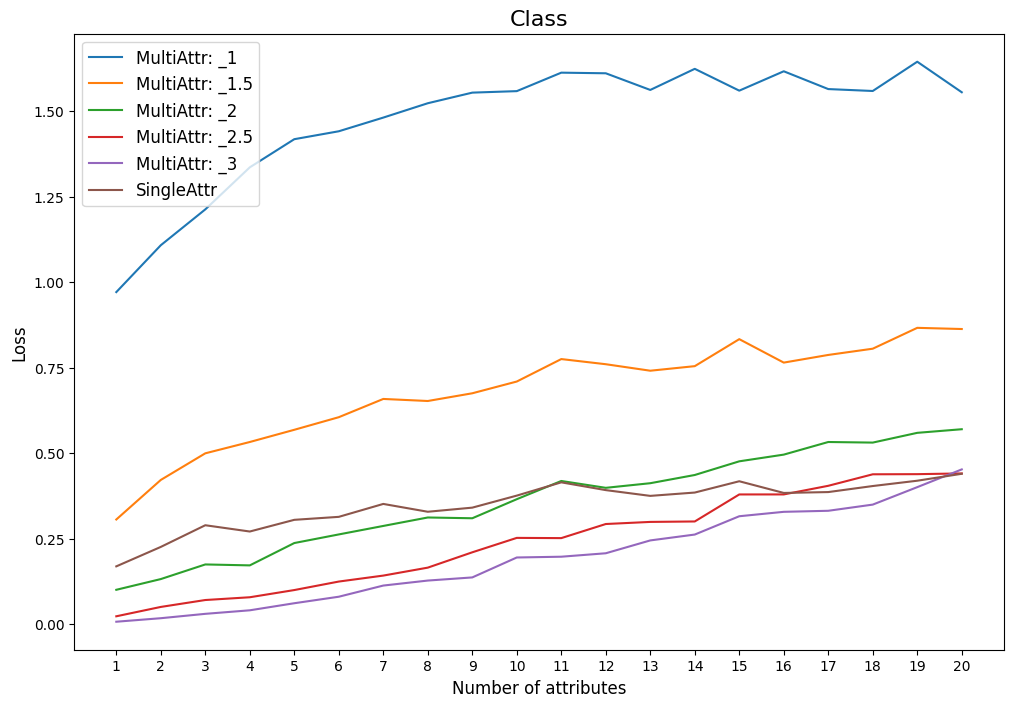
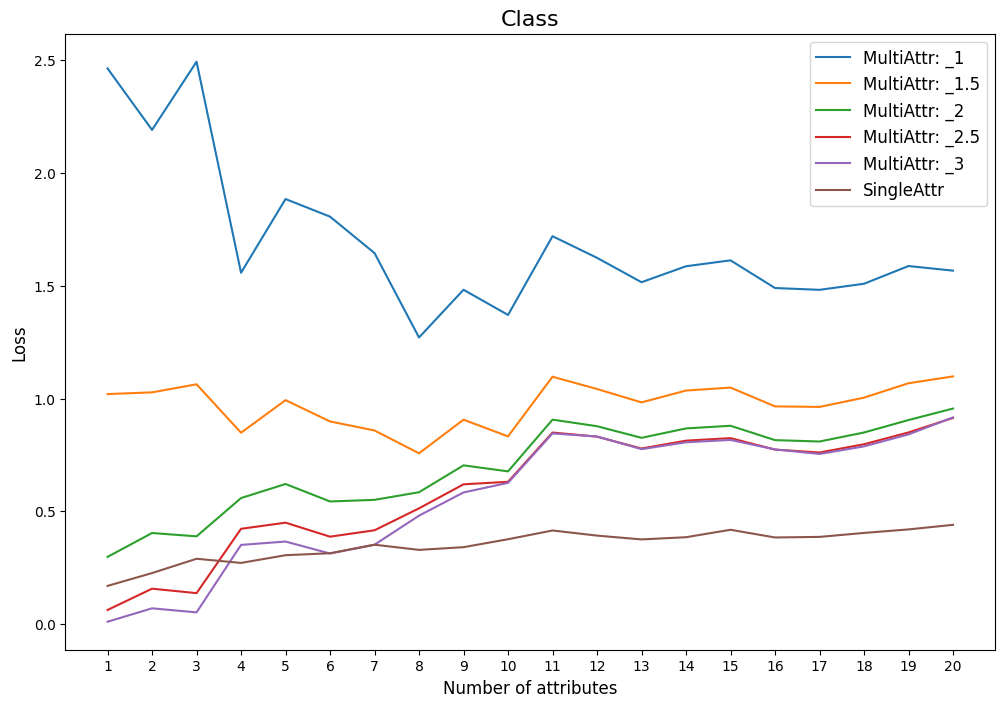
New evaluation + fixing errors (random, mask, etc)

diff --git a/evaluation.py b/evaluation.py
@@ -41,20 +41,16 @@ parser.add_argument('--log_path', type=str, default='./logs/', help='log file pa
 opts = parser.parse_args()
 
 config = yaml.safe_load(open('./configs/' + opts.config + '.yaml', 'r'))
-exp = opts.config
-os.makedirs(f"./out_images/{exp}", exist_ok=True)
+
+save_dir = f'./outputs/evaluation/{opts.config}'
+os.makedirs(save_dir, exist_ok=True)
+
+log_dir_single = os.path.join(opts.log_path, "original_train") + '/'
+log_dir = os.path.join(opts.log_path, opts.config) + '/'
 
 # Load input latent codes
 testdata_dir = './data/ffhq/'
 n_steps = 5
-scale = 2.0
-
-save_dir = './outputs/evaluation/new_train'
-log_dir_single = os.path.join(opts.log_path, "original_train") + '/'
-
-os.makedirs(save_dir, exist_ok=True)
-
-log_dir = os.path.join(opts.log_path, opts.config) + '/'
 
 n_attrs = 20
 attrs = config['attr'].split(',')
@@ -103,7 +99,7 @@ def compute_sequential_loss(w, w_1, attr_nums, coeff, trainer):
     return loss, w_pb * loss_pb, w_reg * loss_reg, w_recon * loss_recon
 
 
-def eval_multi(save_img=True, scaling=1):
+def eval_multi(save_img=True, scaling=1.0):
     with torch.no_grad():
         
         # Initialize trainer
@@ -138,7 +134,7 @@ def eval_multi(save_img=True, scaling=1):
         return losses.mean(dim=0).detach().cpu().numpy()
 
 
-def eval_multi_n(n=1, scaling=1):
+def eval_multi_n(n=1, scaling=1, rand_attr=True, save_img=False):
     with torch.no_grad():
         
         # Initialize trainer
@@ -152,7 +148,10 @@ def eval_multi_n(n=1, scaling=1):
         losses = torch.zeros((n_samples, 4)).to(DEVICE)
 
         for k in track(range(n_samples), f"Evaluating Multi model for {n} attributes, scaling = {scaling}..."):
-            local_attrs = random.sample(range(coeffs.shape[1]), random.randint(1,n))
+            if rand_attr:
+                local_attrs = random.sample(range(coeffs.shape[1]), n) # random.randint(1,n))
+            else:
+                local_attrs = list(range(n))
 
             w_0 = np.load(testdata_dir + 'latent_code_%05d.npy' % k)
             w_0 = torch.tensor(w_0).to(DEVICE)
@@ -168,7 +167,7 @@ def eval_multi_n(n=1, scaling=1):
 
             losses[k] = torch.tensor([loss.item(), loss_pb.item(), loss_reg, loss_recon]).to(DEVICE)
 
-            if k == 500:
+            if k == 100 and save_img:
                 w_1 = torch.cat((w_1[:,:11,:], w_0[:,11:,:]), 1)
                 x_1, _ = trainer.StyleGAN([w_1], input_is_latent=True, randomize_noise=False)
                 utils.save_image(clip_img(x_1), save_dir + f"multi_{n}_attrs_" + str(k) + '.jpg')
@@ -224,7 +223,7 @@ def eval_single(save_img=True):
         return losses.mean(dim=0).detach().cpu().numpy()
 
 
-def eval_single_n(n=1):
+def eval_single_n(n=1, rand_attr=True, save_img=False):
     with torch.no_grad():
         
         # Initialize trainer
@@ -237,7 +236,10 @@ def eval_single_n(n=1):
         losses = torch.zeros((n_samples, 4)).to(DEVICE)
 
         for k in track(range(n_samples), f"Evaluating Single for {n} attributes..."):
-            local_attrs = random.sample(range(coeffs.shape[1]), random.randint(1,n))
+            if rand_attr:
+                local_attrs = random.sample(range(coeffs.shape[1]), random.randint(1,n))
+            else:
+                local_attrs = list(range(n))
 
             coeff = np.zeros_like(coeffs[k])
             coeff[local_attrs] = coeffs[k][local_attrs]
@@ -268,7 +270,7 @@ def eval_single_n(n=1):
 
             losses[k] = torch.tensor([loss.item(), loss_pb.item(), loss_reg, loss_recon]).to(DEVICE)
 
-            if k == 500:
+            if k == 100 and save_img:
                 w_1 = torch.cat((w_1[:,:11,:], w_0[:,11:,:]), 1)
                 x_1, _ = trainer.StyleGAN([w_1], input_is_latent=True, randomize_noise=False)
                 utils.save_image(clip_img(x_1), save_dir + f"single_{n}_attrs_" + str(k) + '.jpg')
@@ -276,17 +278,17 @@ def eval_single_n(n=1):
         return losses.mean(dim=0).detach().cpu().numpy()
 
 
-def all_n_experiment(suffix="", multi=True, single=True, scaling=1):
+def all_n_experiment(suffix="", multi=True, single=True, scaling=1, rand_attr=True, save_img=False):
     if multi:
         losses_m = np.zeros((len(attrs), 4))
         for i in range(1,21):
-            losses_m[i-1] = eval_multi_n(i, scaling=scaling)
+            losses_m[i-1] = eval_multi_n(i, scaling=scaling, rand_attr=rand_attr, save_img=save_img)
         np.save(f"outputs/evaluation/n_multi{suffix}.npy",losses_m)
 
     if single:
         losses_s = np.zeros((len(attrs), 4))
         for i in range(1,21):
-            losses_s[i-1] = eval_single_n(i)
+            losses_s[i-1] = eval_single_n(i, rand_attr=rand_attr, save_img=save_img)
         np.save(f"outputs/evaluation/n_single.npy",losses_s)
 
 
@@ -312,17 +314,13 @@ def plot_n_comparison(suffix="", suffixes=None):
         plt.legend(fontsize=12)
         plt.xlabel("Number of attributes", fontsize=12)
         plt.ylabel("Loss", fontsize=12)
-        plt.savefig(f"out_images/{exp}/n_eval_{title}.png", bbox_inches="tight")
+        plt.savefig(f"{save_dir}/n_eval_{title}.png", bbox_inches="tight")
         plt.clf()
 
 
 def plot_overall(suffix=""):
     single = eval_single(save_img=False)
-    multi = eval_multi(save_img=False)
-
-    # Mock values
-    # multi = [1,2,3,4]
-    # single = [1,2,3,4]
+    multi = eval_multi(save_img=False, scaling=1.5)
 
     fig, ax = plt.subplots(figsize=(10,6))
     bar_width = 0.35
@@ -348,22 +346,23 @@ def plot_overall(suffix=""):
     ax.set_yscale('log')
     ax.legend()
 
-    plt.savefig(f"out_images/{exp}/eval_overall{suffix}.png", bbox_inches="tight")
-    # plt.show()
+    plt.savefig(f"{save_dir}/eval_overall{suffix}.png", bbox_inches="tight")
 
 
 if __name__ == "__main__":
-    plot_overall(suffix="_vs_original")
+    # plot_overall(suffix="_vs_original")
 
-    scaling_exp = True
+    rand = True
+    save_img = True
+    scaling_exp = False
     if scaling_exp:
-        scaling_factors = [1, 1.5, 2, 2.5, 3]
+        scaling_factors = [1, 1.5, 2, 3]
         for scaling in scaling_factors:
-            all_n_experiment(multi=True, single=False, suffix=f"_{scaling}", scaling=scaling)
+            all_n_experiment(multi=True, single=False, suffix=f"_{scaling}", scaling=scaling, rand_attr=rand, save_img=save_img)
 
         suffixes = [f"_{s}" for s in scaling_factors]
     else:
-        all_n_experiment(multi=True, single=True, suffix=f"_vs_original")
+        all_n_experiment(multi=True, single=True, suffix=f"_vs_original", rand_attr=rand, save_img=save_img)
         suffixes = None
     
     plot_n_comparison(suffix="_vs_original", suffixes=suffixes)

diff --git a/trainer.py b/trainer.py
@@ -3,18 +3,14 @@
 # This source code is made available under the license found in the
 # LICENSE.txt in the root directory of this source tree.
 
-import os
 import numpy as np
 import torch
 import torch.nn as nn
 import torch.nn.functional as F
-import torch.utils.data as data
 import random
 random.seed(1)
 
-from PIL import Image
-from torch.autograd import grad
-from torchvision import transforms, utils
+from torchvision import utils
 
 from nets import *
 from utils.functions import *
@@ -278,7 +274,7 @@ class Trainer(nn.Module):
         mask_pb = T_coeff.float() * target_pb + F_coeff.float() * (1-target_pb)
 
         pred_pb = predict_lbl_1[torch.arange(predict_lbl_1.shape[0]), self.attr_nums]
-        self.loss_pb = self.BCEloss(pred_pb[coeff_idx], target_pb, reduction='none')*mask_pb
+        self.loss_pb = self.BCEloss(pred_pb[coeff_idx], target_pb, reduction='none') # *mask_pb
         self.loss_pb = self.loss_pb.mean()
 
         # Latent code recon

diff --git a/overall_test.py b/overall_test.py
@@ -42,12 +42,13 @@ opts = parser.parse_args()
 
 log_dir = os.path.join(opts.log_path, opts.config) + '/'
 config = yaml.safe_load(open('./configs/' + opts.config + '.yaml', 'r'))
-save_dir = opts.out_path + 'test/scaling/'
+save_dir = opts.out_path + 'test/no_pb_mask/'
 os.makedirs(save_dir, exist_ok=True)
 log_dir_single = os.path.join(opts.log_path, "original_train") + '/'
 
 local_attr_dict = {attr:i for i, attr in enumerate(config["attr"].split(","))}
-attributes = {'Bald': 1, 'Smiling': 1, 'Male': -1, 'No_Beard': -1, 'Arched_Eyebrows': 1, 'Eyeglasses': 1, 'Wearing_Lipstick':-1}
+attributes = {'Bald': 1, 'Smiling': 1, 'Male': -1, 'No_Beard': -1,
+              'Arched_Eyebrows': 1, 'Eyeglasses': 1, 'Wearing_Lipstick':-1}
 
 scales = [1, 1.5, 2, 2.5, 3]
 all_losses = {s: {"loss": [], "loss_pb": [], "loss_reg": [], "loss_recon": []} for s in scales + ["Single"]}

diff --git a/all_train.py b/all_train.py
@@ -8,13 +8,10 @@ import argparse
 import os
 import numpy as np
 import torch
-import torch.nn as nn
-import torch.nn.functional as F
 import torch.utils.data as data
 import yaml
 
 from PIL import Image
-from torchvision import transforms, utils
 from torch.utils.tensorboard.writer import SummaryWriter
 
 # Set up to allow both gpu and cpu runtimes

diff --git a/ui.py b/ui.py
@@ -12,7 +12,7 @@ from trainer import Trainer
 from constants import LABEL_FILE, LATENT_PATH, LABEL_FILE, DEVICE, LOG_DIR, STYLEGAN, CLASSIFIER
 
 # experiment = "limit_scaled"
-experiment = "triple_train"
+experiment = "no_pb_mask"
 n_attrs = 20
 
 # Load basic config
